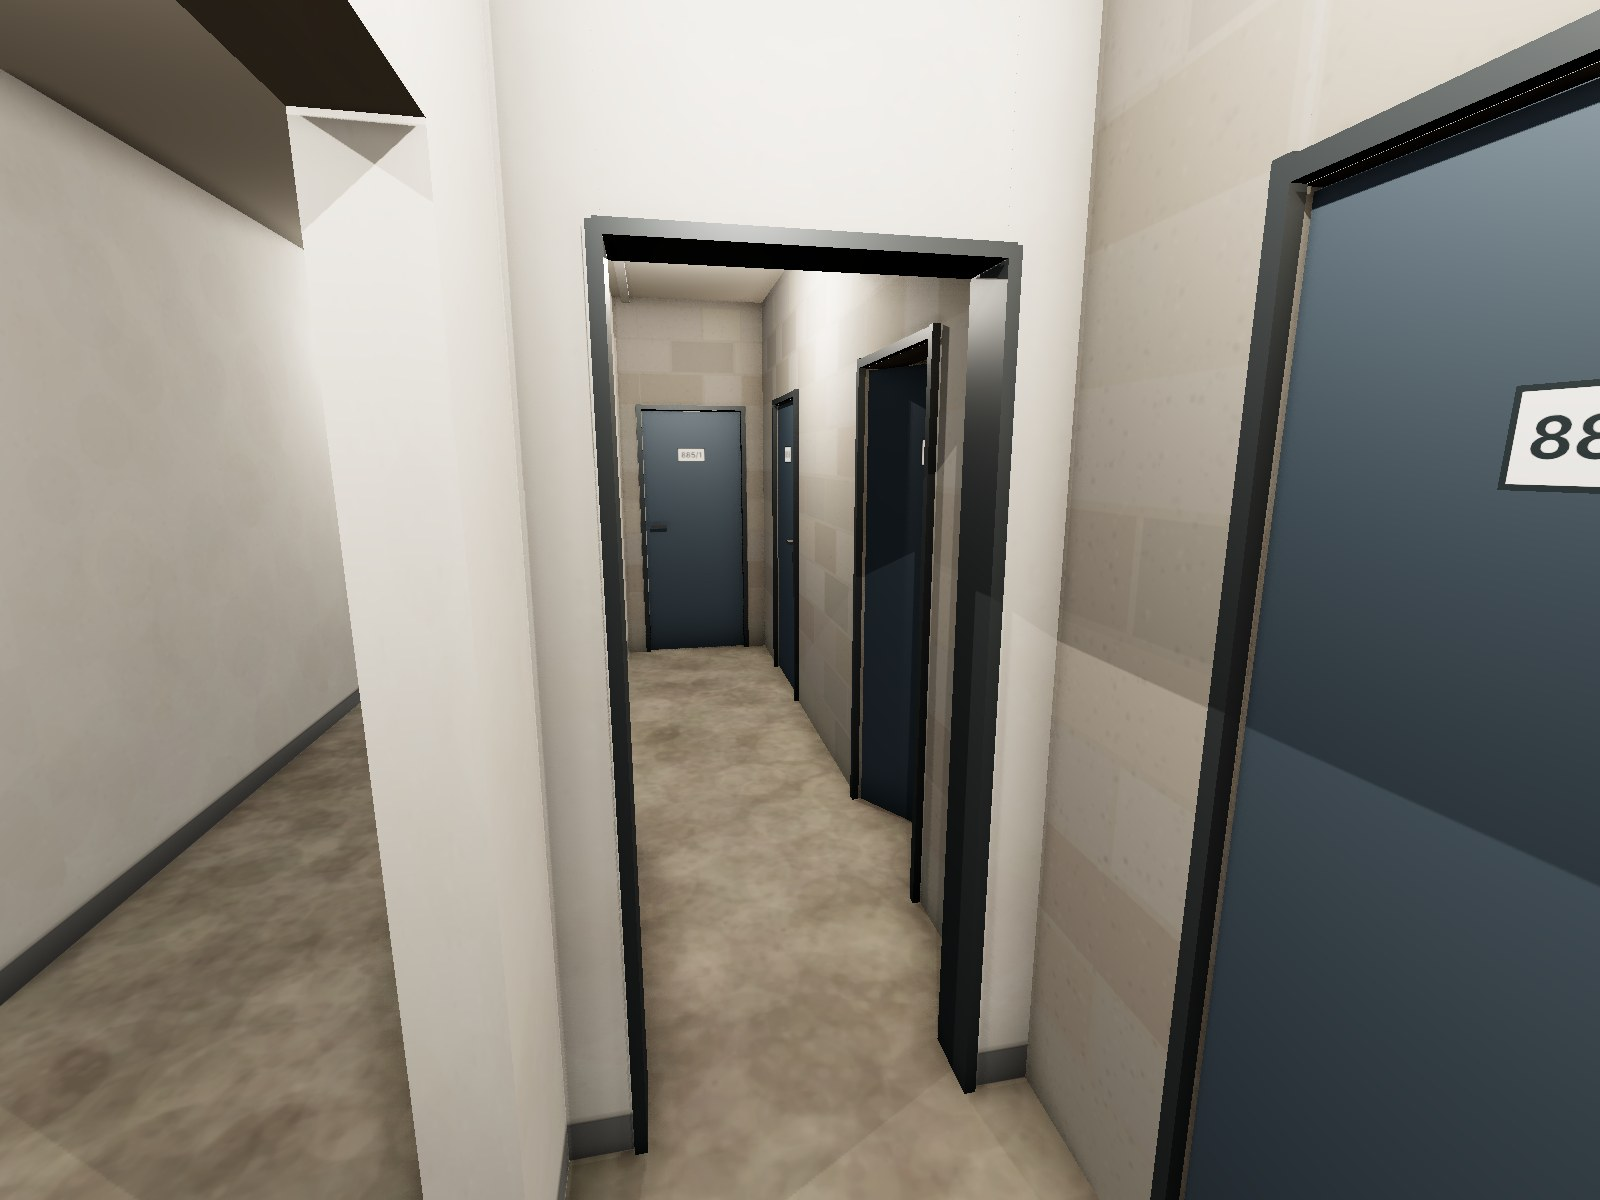
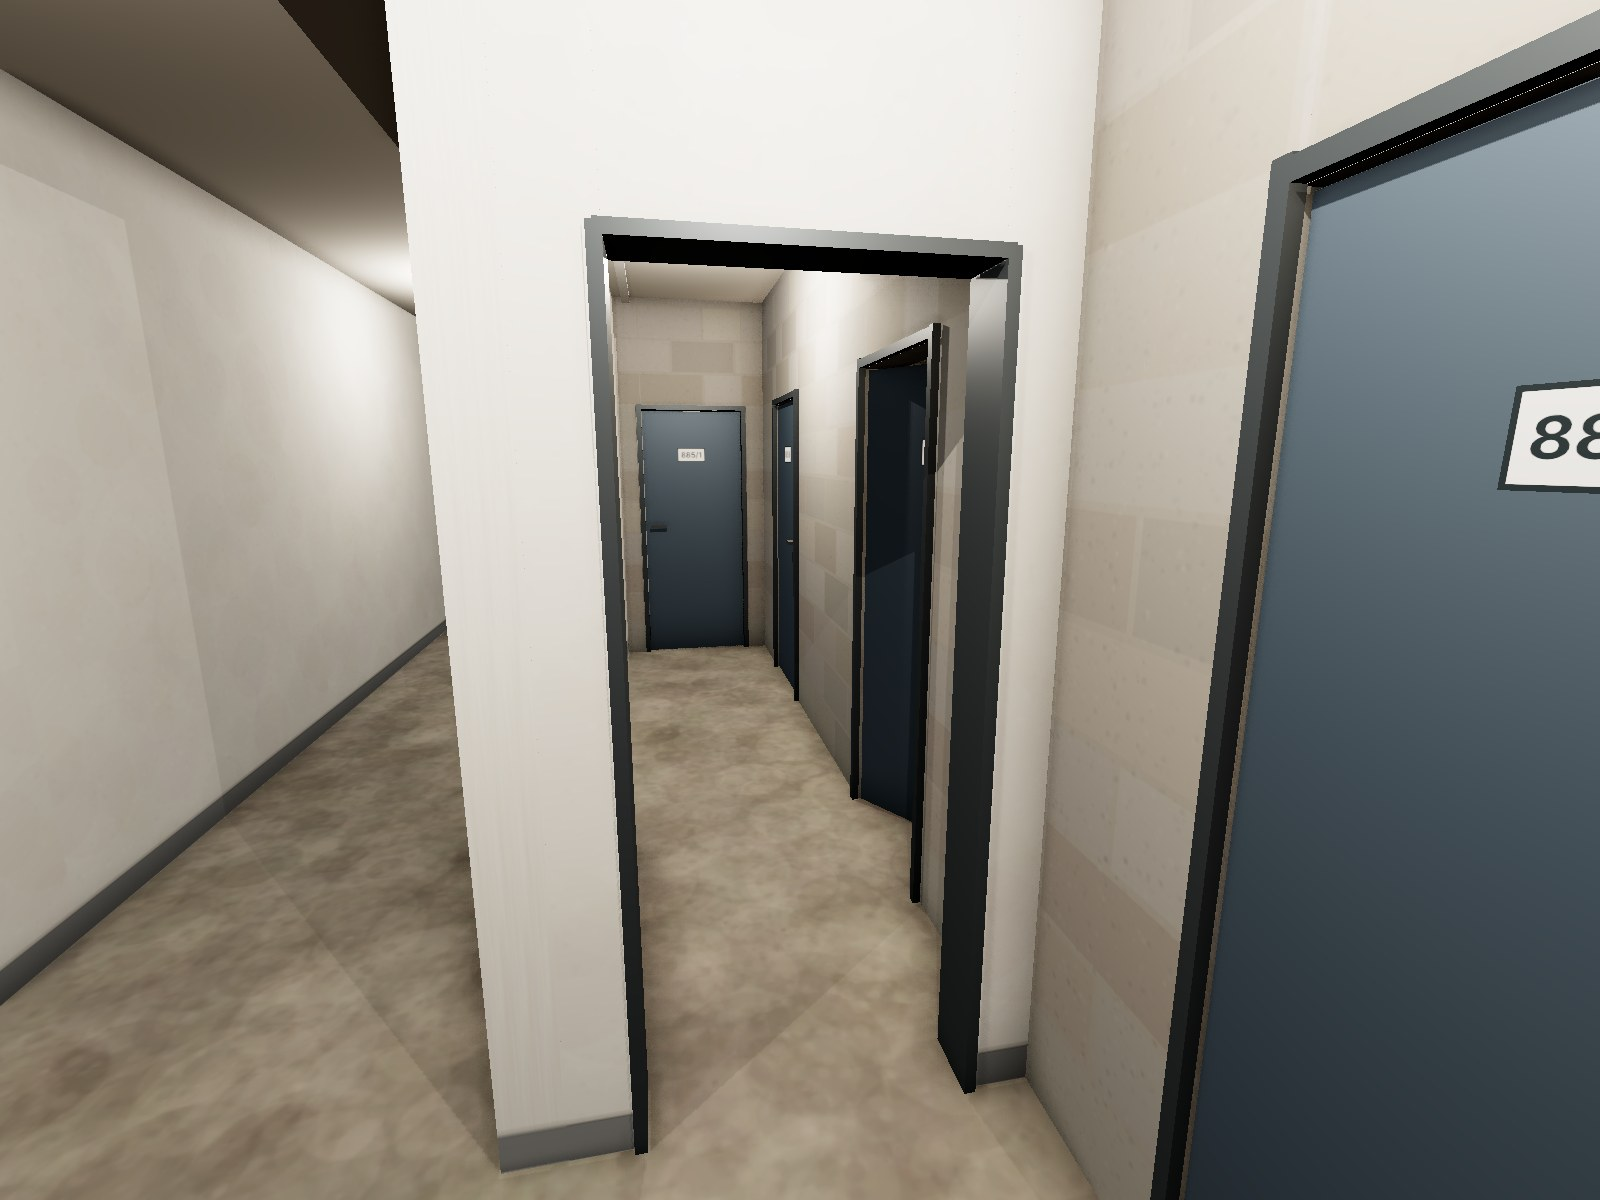
Open A2 access area to corridor C1 across the full width of 885/9 (Vizualizace 2 + 3D A1/A2)
Claude-Session: https://claude.ai/code/session_01PwTnPep7yYfhi5YvdxRW3v

diff --git a/sklepyjachymov.html b/sklepyjachymov.html
@@ -858,7 +858,7 @@
                         <rect x="90" y="212" width="624" height="62.4" class="v2-corridor" onclick="selectItem('vis2', 'C1', 'Společná chodba C1', '15,60 x 1,56 m', 'Páteřní chodba sklepů')"></rect>
                         <rect x="714" y="170" width="60" height="104.4" class="v2-corridor" onclick="selectItem('vis2', 'Chodba', 'Boční chodba', '1,50 x 1,05 m (k chodbě C1)', 'Přístup ke kójím A6 a 885/7')"></rect>
                         <rect x="156" y="166" width="174" height="46" class="v2-corridor" onclick="selectItem('vis2', 'Přístup A1', 'Přístupová plocha', '4,35 x 1,15 m (5,00 m²)', 'Přístup ke kójím 885/1, 885/6 a 885/8 průchodem z A2 (bez vlastního vstupu z C1)')"></rect>
-                        <rect x="330" y="166" width="74" height="46" class="v2-corridor" onclick="selectItem('vis2', 'Přístup A2', 'Přístupová plocha', '1,85 x 1,15 m (2,13 m²)', 'Jediný vstup z chodby C1 k horním kójím; přístup k 885/9 a 885/2, průchodem doleva do A1')"></rect>
+                        <rect x="330" y="166" width="74" height="46" class="v2-corridor" onclick="selectItem('vis2', 'Přístup A2', 'Přístupová plocha', '1,85 x 1,15 m (2,13 m²)', 'Otevřeno do chodby C1 v celé šířce 885/9 (1,85 m); přístup k 885/9 a 885/2, průchodem doleva do A1')"></rect>
                         <rect x="418" y="274.4" width="78" height="212" class="v2-corridor" onclick="selectItem('vis2', 'Přístup B2', 'Volná část B2', '1,95 x 5,30 m (10,34 m²)', 'Přístup ke kójím 885/5, 885/X a 885/4')"></rect>
                         <text x="560" y="246" class="v2-corr-label" >SPOLEČNÁ CHODBA C1</text>
                         <text x="210" y="186" class="v2-corr-sub" >přístup</text>
@@ -897,7 +897,7 @@
                         <rect x="711" y="214" width="6" height="58.4" class="v2-opening"><title>Průchod chodba C1 → boční chodba</title></rect>
                         <rect x="716" y="209" width="56" height="6" class="v2-opening"><title>Průchod boční chodba</title></rect>
                         <rect x="472" y="209" width="76" height="6" class="v2-opening"><title>Schodiště → chodba C1</title></rect>
-                        <rect x="347" y="209" width="40" height="6" class="v2-opening"><title>Jediný vstup z chodby C1 k horním kójím (před 885/9)</title></rect>
+                        <rect x="332" y="209" width="72" height="6" class="v2-opening"><title>Vstup z chodby C1 k horním kójím otevřený v celé šířce 885/9 (1,85 m)</title></rect>
                         <rect x="437" y="271.4" width="40" height="6" class="v2-opening"><title>Vstup do B2 (poloha orientační)</title></rect>
                         <rect x="327" y="173" width="6" height="32" class="v2-opening"><title>Průchod A2 → A1 (současné dveře, ponechán jen otvor)</title></rect>
                         <!-- Nové příčky 15 cm (tvárnice) -->
@@ -1015,7 +1015,7 @@
                         <text x="744" y="120" class="v2-area" fill="#2e7d32">3,15 m²</text>
                         <text x="744" y="108" class="v2-dim" fill="#2e7d32">1,50 × 2,10</text>
                         <!-- Vstup k horním kójím a průchod -->
-                        <g class="v2-door" onclick="selectItem('vis2', 'Vstup', 'Jediný vstup k horním kójím', 'Z chodby C1 před kójí 885/9', 'Přístup ke kójím 885/9 a 885/2, dále průchodem doleva k 885/1, 885/6 a 885/8')">
+                        <g class="v2-door" onclick="selectItem('vis2', 'Vstup', 'Vstup k horním kójím', 'Otevřeno z chodby C1 v celé šířce 885/9 (1,85 m)', 'Přístup ke kójím 885/9 a 885/2, dále průchodem doleva k 885/1, 885/6 a 885/8')">
                             <rect x="347" y="207" width="40" height="10" fill="transparent"></rect>
                             <path d="M 367 236 L 367 218 M 361 224 L 367 217 L 373 224" class="v2-arrow"></path>
                             <text x="367" y="246" class="v2-corr-sub" font-weight="bold" fill="#1565c0">VSTUP</text>

diff --git a/vizualizace3d-a1a2.html b/vizualizace3d-a1a2.html
@@ -32,7 +32,7 @@
     <div class="panel">
         <h1>Místnosti A1 a A2 – cílový stav</h1>
         <p><b>A1:</b> 885/1 (1,50 × 3,30 m), 885/6 a 885/8 (2,10 × 2,00 m). <b>A2:</b> 885/9 (1,85 × 2,00 m), 885/2 (1,50 × 3,30 m).</p>
-        <p>Jediný vstup z chodby C1 před 885/9, do A1 průchodem bez dveří. Příčky z tvárnic 15 cm až ke stropu, dveře 0,80 m.</p>
+        <p>Přístup z chodby C1 otevřený v celé šířce 885/9 (1,85 m), do A1 průchodem bez dveří. Příčky z tvárnic 15 cm až ke stropu, dveře 0,80 m.</p>
         <p class="note">Orientační vizualizace podle Návrhu cílového stavu 2. Rozměry dle půdorysu, výška stropu 2,80 m, stěny s opravenou omítkou. Okna a rozvody v A1 a A2 nejsou zakresleny (nemám podklad). Myší lze pohled otáčet a přibližovat.</p>
         <div class="buttons">
             <button data-view="entry" class="active">Pohled od vstupu</button>
@@ -214,7 +214,7 @@
         wall(-T, 0, 0, C1Z + C1D, 'plaster');                                          // západní obvodová
         wall(A1W, 0, OX, DEP, 'plaster', [{ a: 2.325, b: 3.125, h: 2.0 }]);            // A1 | A2 – průchod v místě současných dveří
         wall(0, DEP, OX, C1Z, 'plaster');                                              // A1 | C1 – plná zeď
-        wall(OX, DEP, OX + 1.85, C1Z, 'plaster', [{ a: OX + 0.425, b: OX + 1.425, h: 2.0 }]); // A2 | C1 – jediný vstup před 885/9
+        // A2 | C1: v šířce 885/9 (1,85 m) zcela otevřeno do chodby, bez stěny
         wall(OX + A2W, 0, OX + A2W + PT, C1Z, 'plaster');                              // A2 | schodiště
         wall(0, C1Z + C1D, XEND, C1Z + C1D + PT, 'plaster', [], { cut: true });        // jižní stěna chodby C1
         wall(XEND, C1Z, XEND + PT, C1Z + C1D, 'plaster', [], { cut: true });
